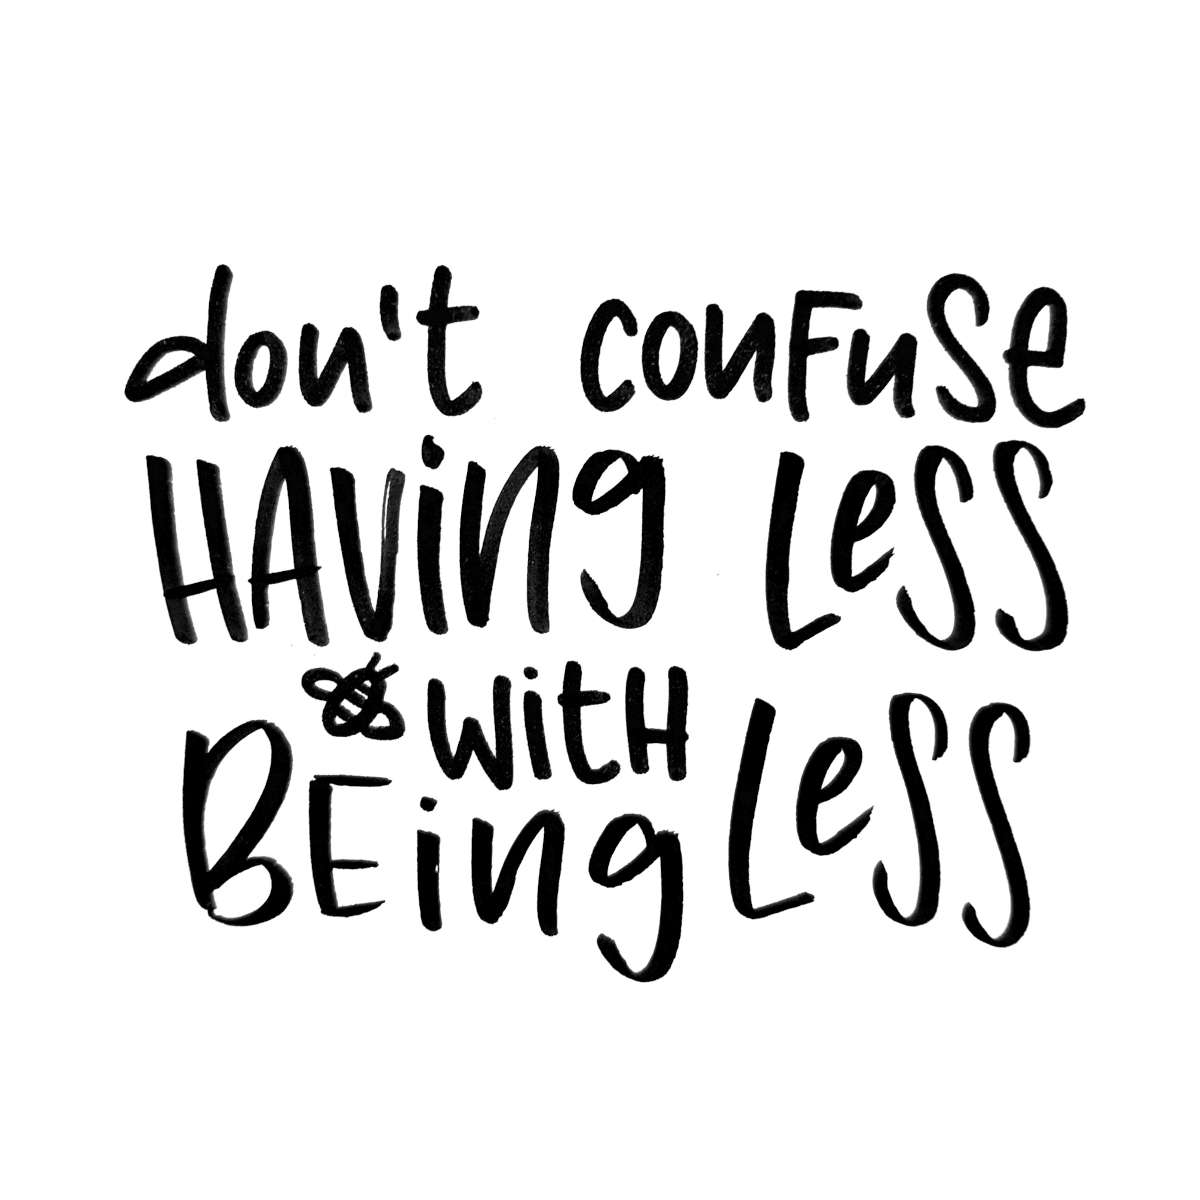
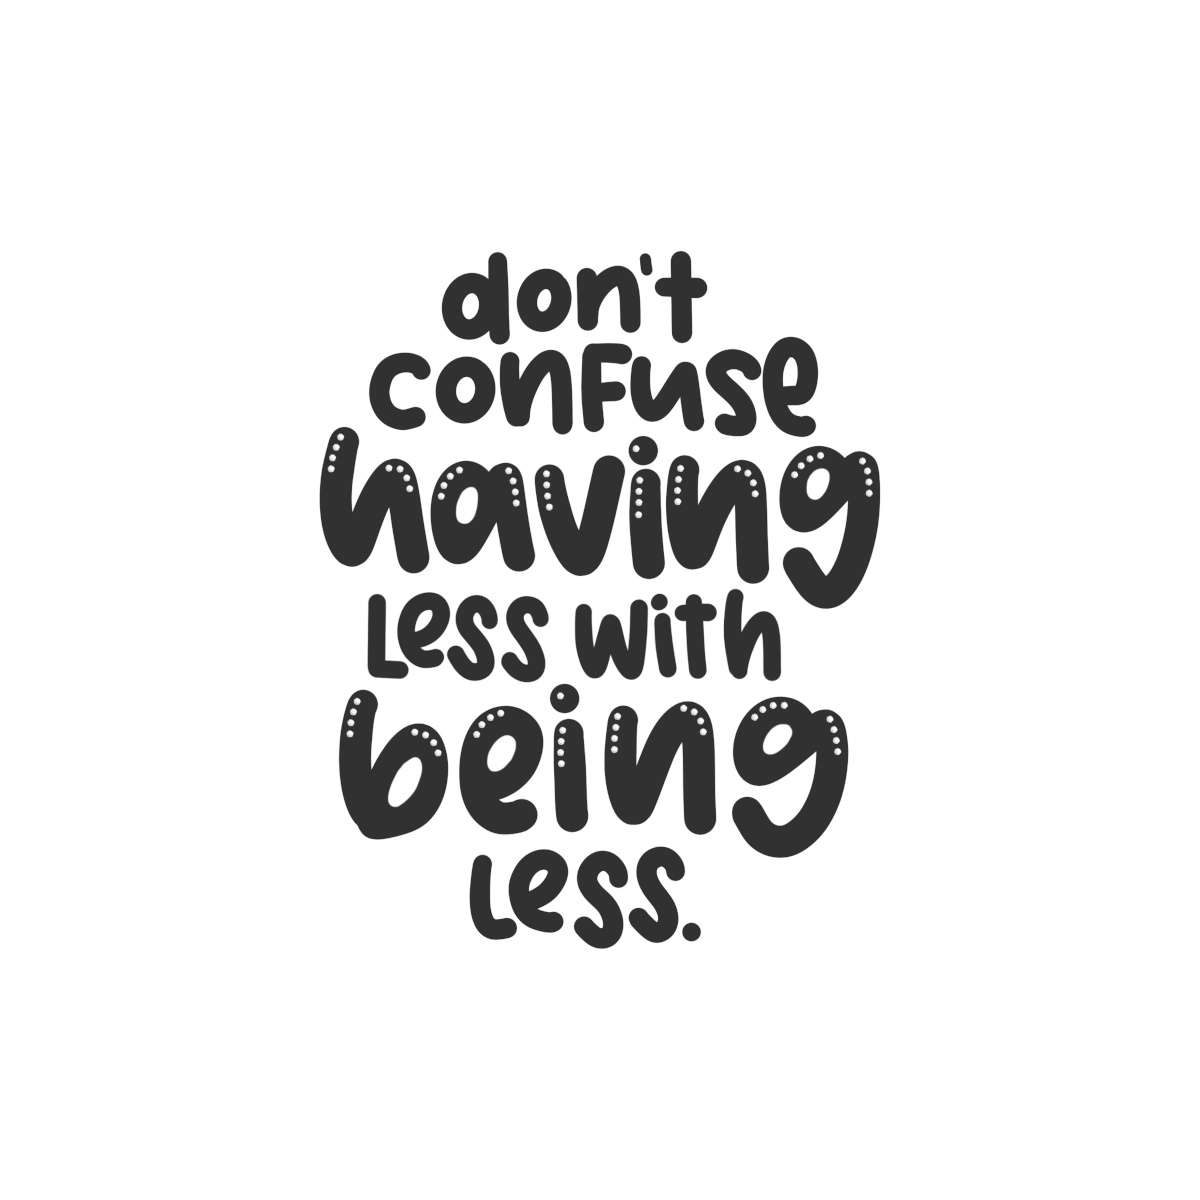
Update images used in blog (posts)

Changed region(s): [[0.0925, 0.2158, 0.8942, 0.8325]]

diff --git a/_posts/2018-10-05-wie-du-dankbarkeit-in-deinem-leben-etablierst.md b/_posts/2018-10-05-wie-du-dankbarkeit-in-deinem-leben-etablierst.md
@@ -77,7 +77,7 @@ Beispiele:
 -   ein inspirierender Ausflug
 -   meine Gesundheit
 
-![Mache dir bewusst, dass dein Leben, deine Gesundheit und alles Positive um dich herum keine Selbstverständlichkeit ist.]({{site.baseurl}}/assets/img/posts/everyday-is-good.jpg)
+![Mache dir bewusst, dass dein Leben, deine Gesundheit und alles Positive um dich herum keine Selbstverständlichkeit ist.]({{site.baseurl}}/assets/img/posts/everyday_good.jpg)
 {% include handlettering_footer.html %}
 
 ### Dankbarkeit an miesen Tagen, wie geht das denn?

diff --git a/wohlfuehlen.md b/wohlfuehlen.md
@@ -32,8 +32,8 @@ haben sollte kein Luxus sein, sondern eine Selbstverständlichkeit.
 
 {% include image_without_caption.html
   class="img-right"
-  description='Life is good. Be grateful.'
-  image='life_is_good_be_grateful.jpg'
+  description='Everyday is good because of being alive.'
+  image='everyday_good.jpg'
 %}
 
 Dankbarkeit ist ein äußerst effektives Mittel gegen negative Gefühle wie Frust,

diff --git a/loslassen.md b/loslassen.md
@@ -27,8 +27,8 @@ Wer bin ich und wer will ich sein?
 
 {% include image_without_caption.html
   class="img-right"
-  description='Keep life simple'
-  image='keep-life-simple.jpg'
+  description='Dont confuse having less with being less.'
+  image='dont_confuse_having_less_with_being_less.jpg'
 %}
 
 Minimalismus, das ist doch das mit der leeren Wohnung und der spartanischen
